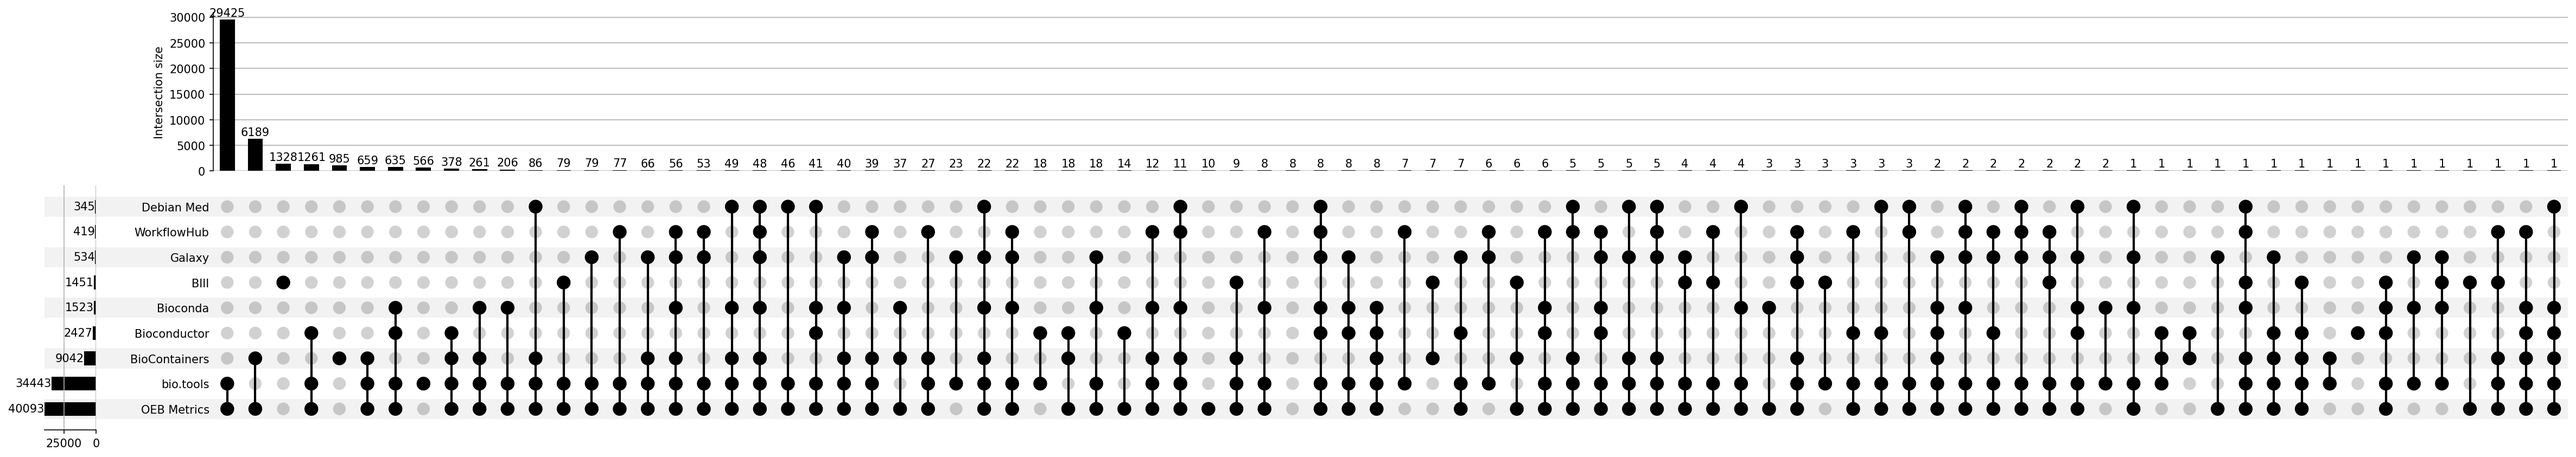
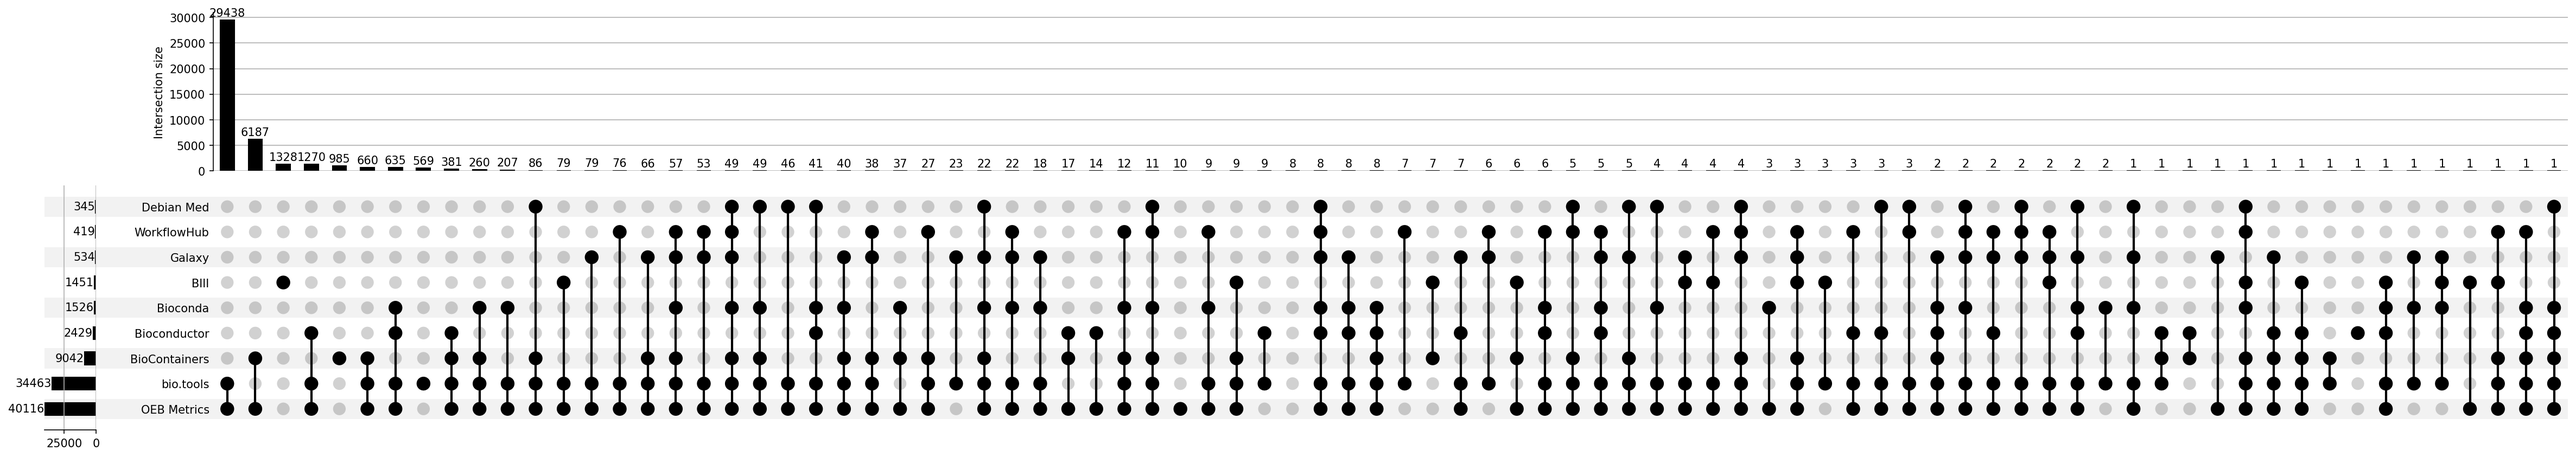
generate new contents report on Sun Oct 11 06:14:45 UTC 2026

diff --git a/report/summary.md b/report/summary.md
@@ -1,16 +1,16 @@
 # RSEc contents summary
 
-43052 tool folders, 9 sources.
+43069 tool folders, 9 sources.
 
 ## Tools per source
 
 | source | tools | share |
 | --- | --- | --- |
-| bio.tools | 34443 | 80.0% |
-| OEB Metrics | 40093 | 93.1% |
+| bio.tools | 34463 | 80.0% |
+| OEB Metrics | 40116 | 93.1% |
 | BioContainers | 9042 | 21.0% |
-| Bioconductor | 2427 | 5.6% |
-| Bioconda | 1523 | 3.5% |
+| Bioconductor | 2429 | 5.6% |
+| Bioconda | 1526 | 3.5% |
 | BIII | 1451 | 3.4% |
 | Galaxy | 534 | 1.2% |
 | Debian Med | 345 | 0.8% |
@@ -21,56 +21,56 @@
 | sources | tools | share |
 | --- | --- | --- |
 | 0 | 8 | 0.0% |
-| 1 | 2890 | 6.7% |
-| 2 | 35695 | 82.9% |
-| 3 | 2476 | 5.8% |
-| 4 | 1570 | 3.6% |
-| 5 | 246 | 0.6% |
+| 1 | 2893 | 6.7% |
+| 2 | 35697 | 82.9% |
+| 3 | 2485 | 5.8% |
+| 4 | 1573 | 3.7% |
+| 5 | 245 | 0.6% |
 | 6 | 110 | 0.3% |
-| 7 | 57 | 0.1% |
+| 7 | 58 | 0.1% |
 
 ## Source combinations
 
 | sources present | tools |
 | --- | --- |
-| bio.tools + OEB Metrics | 29425 |
-| OEB Metrics + BioContainers | 6189 |
+| bio.tools + OEB Metrics | 29438 |
+| OEB Metrics + BioContainers | 6187 |
 | BIII only | 1328 |
-| bio.tools + OEB Metrics + Bioconductor | 1261 |
+| bio.tools + OEB Metrics + Bioconductor | 1270 |
 | BioContainers only | 985 |
-| bio.tools + OEB Metrics + BioContainers | 659 |
+| bio.tools + OEB Metrics + BioContainers | 660 |
 | bio.tools + OEB Metrics + Bioconductor + Bioconda | 635 |
-| bio.tools only | 566 |
-| bio.tools + OEB Metrics + BioContainers + Bioconductor | 378 |
-| bio.tools + OEB Metrics + BioContainers + Bioconda | 261 |
-| bio.tools + OEB Metrics + Bioconda | 206 |
+| bio.tools only | 569 |
+| bio.tools + OEB Metrics + BioContainers + Bioconductor | 381 |
+| bio.tools + OEB Metrics + BioContainers + Bioconda | 260 |
+| bio.tools + OEB Metrics + Bioconda | 207 |
 | bio.tools + OEB Metrics + BioContainers + Debian Med | 86 |
 | bio.tools + OEB Metrics + BIII | 79 |
 | bio.tools + OEB Metrics + Galaxy | 79 |
-| bio.tools + OEB Metrics + WorkflowHub | 77 |
+| bio.tools + OEB Metrics + WorkflowHub | 76 |
 | bio.tools + OEB Metrics + BioContainers + Galaxy | 66 |
-| bio.tools + OEB Metrics + BioContainers + Bioconda + Galaxy + WorkflowHub | 56 |
+| bio.tools + OEB Metrics + BioContainers + Bioconda + Galaxy + WorkflowHub | 57 |
 | bio.tools + OEB Metrics + Galaxy + WorkflowHub | 53 |
+| bio.tools + OEB Metrics + BioContainers + Bioconda + Galaxy + Debian Med + WorkflowHub | 49 |
 | bio.tools + OEB Metrics + BioContainers + Bioconda + Debian Med | 49 |
-| bio.tools + OEB Metrics + BioContainers + Bioconda + Galaxy + Debian Med + WorkflowHub | 48 |
 | bio.tools + OEB Metrics + Debian Med | 46 |
 | bio.tools + OEB Metrics + Bioconductor + Bioconda + Debian Med | 41 |
 | bio.tools + OEB Metrics + BioContainers + Bioconda + Galaxy | 40 |
-| bio.tools + OEB Metrics + BioContainers + Galaxy + WorkflowHub | 39 |
+| bio.tools + OEB Metrics + BioContainers + Galaxy + WorkflowHub | 38 |
 | OEB Metrics + BioContainers + Bioconda | 37 |
 | bio.tools + OEB Metrics + BioContainers + WorkflowHub | 27 |
 | bio.tools + Galaxy | 23 |
 | bio.tools + OEB Metrics + BioContainers + Bioconda + Galaxy + Debian Med | 22 |
 | bio.tools + OEB Metrics + Bioconda + Galaxy + WorkflowHub | 22 |
-| bio.tools + Bioconductor | 18 |
-| OEB Metrics + BioContainers + Bioconductor | 18 |
 | bio.tools + OEB Metrics + Bioconda + Galaxy | 18 |
+| OEB Metrics + BioContainers + Bioconductor | 17 |
 | OEB Metrics + Bioconductor | 14 |
 | bio.tools + OEB Metrics + BioContainers + Bioconda + WorkflowHub | 12 |
 | bio.tools + OEB Metrics + BioContainers + Bioconda + Debian Med + WorkflowHub | 11 |
 | OEB Metrics only | 10 |
+| bio.tools + OEB Metrics + Bioconda + WorkflowHub | 9 |
 | bio.tools + OEB Metrics + BioContainers + BIII | 9 |
-| bio.tools + OEB Metrics + Bioconda + WorkflowHub | 8 |
+| bio.tools + Bioconductor | 9 |
 | (no source) | 8 |
 | bio.tools + OEB Metrics + Bioconductor + Bioconda + Galaxy + Debian Med + WorkflowHub | 8 |
 | bio.tools + OEB Metrics + Bioconductor + Bioconda + Galaxy | 8 |
@@ -84,10 +84,10 @@
 | bio.tools + OEB Metrics + BioContainers + Debian Med + WorkflowHub | 5 |
 | bio.tools + OEB Metrics + Bioconductor + Bioconda + Galaxy + WorkflowHub | 5 |
 | bio.tools + OEB Metrics + BioContainers + Galaxy + Debian Med | 5 |
-| bio.tools + OEB Metrics + BioContainers + Galaxy + Debian Med + WorkflowHub | 5 |
+| bio.tools + OEB Metrics + Bioconda + Debian Med | 4 |
 | bio.tools + OEB Metrics + BIII + Galaxy | 4 |
 | bio.tools + OEB Metrics + BIII + WorkflowHub | 4 |
-| bio.tools + OEB Metrics + Bioconda + Debian Med | 4 |
+| bio.tools + OEB Metrics + BioContainers + Galaxy + Debian Med + WorkflowHub | 4 |
 | OEB Metrics + Bioconda | 3 |
 | bio.tools + OEB Metrics + BioContainers + BIII + Galaxy + WorkflowHub | 3 |
 | bio.tools + BIII | 3 |
